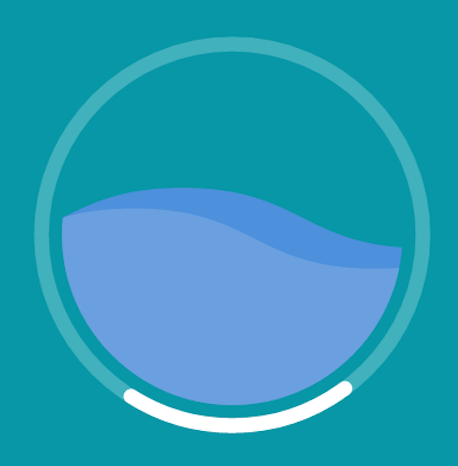
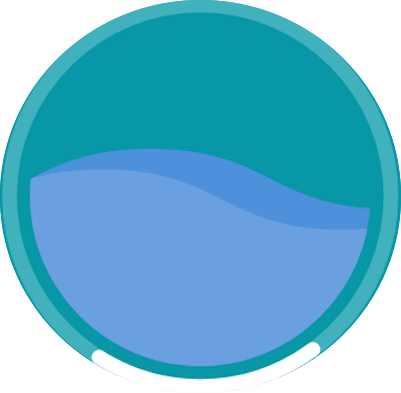
Se termino de maquetar la pagina de aquadoro, ire poniendo la logica

diff --git a/lib/aquadoro.dart b/lib/aquadoro.dart
@@ -28,9 +28,13 @@ class _AquadoroState extends State<Aquadoro> {
             child: Column(
               children: <Widget>[
                  _nuestroApbar( context),
-                 SizedBox(height: 80),
-                 
-                 
+                 Expanded(child: Container()),
+                 _contadorAcuadoros(),
+                 SizedBox(height: 10,),
+                 _aquadoroStack(),
+                 Expanded(child: Container()),
+                 _botones(),
+                 Expanded(child: Container()),
 
               ],
             ),
@@ -40,6 +44,22 @@ class _AquadoroState extends State<Aquadoro> {
       ),
     );
   }
+  
+  Widget fondoPomodoro() {
+    return Container(
+     decoration: BoxDecoration(
+      gradient: LinearGradient(
+        
+        colors: <Color>[
+          Colors.cyan[600],
+          Colors.cyan[500],
+        ]
+      )
+     ),
+    );
+  } 
+
+
   Widget _nuestroApbar(BuildContext context){
     return Row(
       crossAxisAlignment: CrossAxisAlignment.start ,
@@ -66,23 +86,111 @@ class _AquadoroState extends State<Aquadoro> {
           ),
         ),
         
+      ],
+    );
+  }
 
+  Widget _contadorAcuadoros(){
+    return Row(
+    mainAxisAlignment: MainAxisAlignment.spaceAround ,
+     children: <Widget>[
+
+        Icon( Icons.av_timer,
+          color: Colors.teal[50],
+          size: 45,
+        ),
+
+        Icon( Icons.av_timer,
+          color: Colors.teal[50],
+          size: 45,
+        ),
+
+        Icon( Icons.av_timer,
+          color: Colors.teal[50],
+          size: 45,
+        ),
+
+        Icon( Icons.av_timer,
+          color: Colors.teal[50],
+          size: 45,
+        ),
+
+        Icon( Icons.av_timer,
+          color: Colors.teal[50],
+          size: 45,
+        ),
+       
+     ],
+    );
+  }
+
+  Widget _aquadoroStack(){
+    return Stack(
+      children: <Widget>[
+
+        Container(
+          width: 357,
+          height: 357,
+          margin: EdgeInsets.all(10),
+          decoration: BoxDecoration(
+            borderRadius: BorderRadius.circular(10.0),
+            image: DecorationImage(
+              image: AssetImage("assets/Acuadoro.png" ),
+              fit: BoxFit.cover
+          ),
+         ),
+        )
 
       ],
     );
   }
 
-  Widget fondoPomodoro() {
-    return Container(
-     decoration: BoxDecoration(
-      gradient: LinearGradient(
-        
-        colors: <Color>[
-          Colors.cyan[600],
-          Colors.cyan[500],
-        ]
-      )
-     ),
+  Widget _botones(){
+    double sizebotones= 27.0;
+    return Row(
+     mainAxisAlignment: MainAxisAlignment.spaceAround ,
+     children: <Widget>[
+
+      RaisedButton(
+       shape: RoundedRectangleBorder(
+          borderRadius: BorderRadius.circular(15)
+       ),
+       color: Colors.cyan[200],
+       child: Row(
+         children: <Widget>[
+           Text('Reset',
+            style: TextStyle(fontSize: sizebotones, color: Colors.teal[900]),
+           ),
+           Icon(Icons.rotate_left , size: sizebotones, color:Colors.teal[900])
+         ],
+       ),
+       onPressed: (){       },
+      ),
+
+      OutlineButton(
+       borderSide: BorderSide(
+         width: 2, color: Colors.blue[900], style: BorderStyle.solid ),
+       shape: RoundedRectangleBorder(
+          borderRadius: BorderRadius.circular(15)
+       ),
+       child: Row(
+         children: <Widget>[
+           Text('Focus',
+            style: TextStyle(fontSize: sizebotones, color: Colors.indigo[800]),
+           ),
+
+           Icon(Icons.album , size: sizebotones, color:Colors.blue[900]) 
+         ],
+       ),
+       onPressed: (){
+
+       },
+      ),
+
+       
+
+     ]
     );
-  } 
+  }
+
 }//Class Aquadoro
